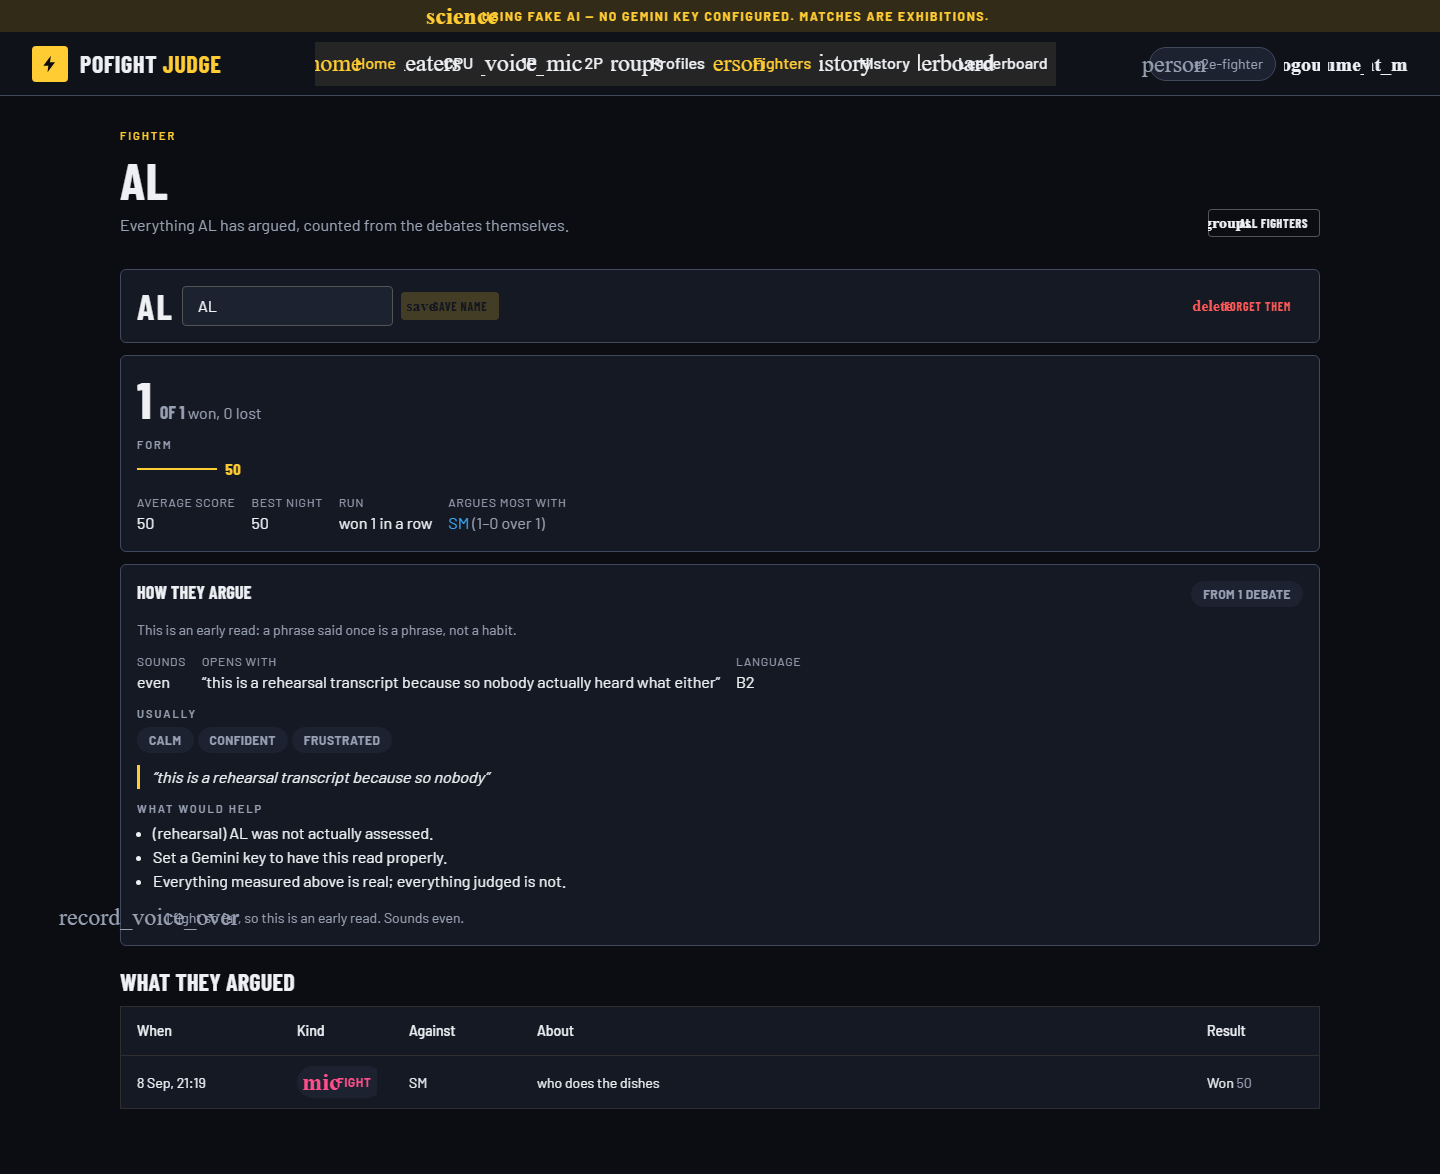
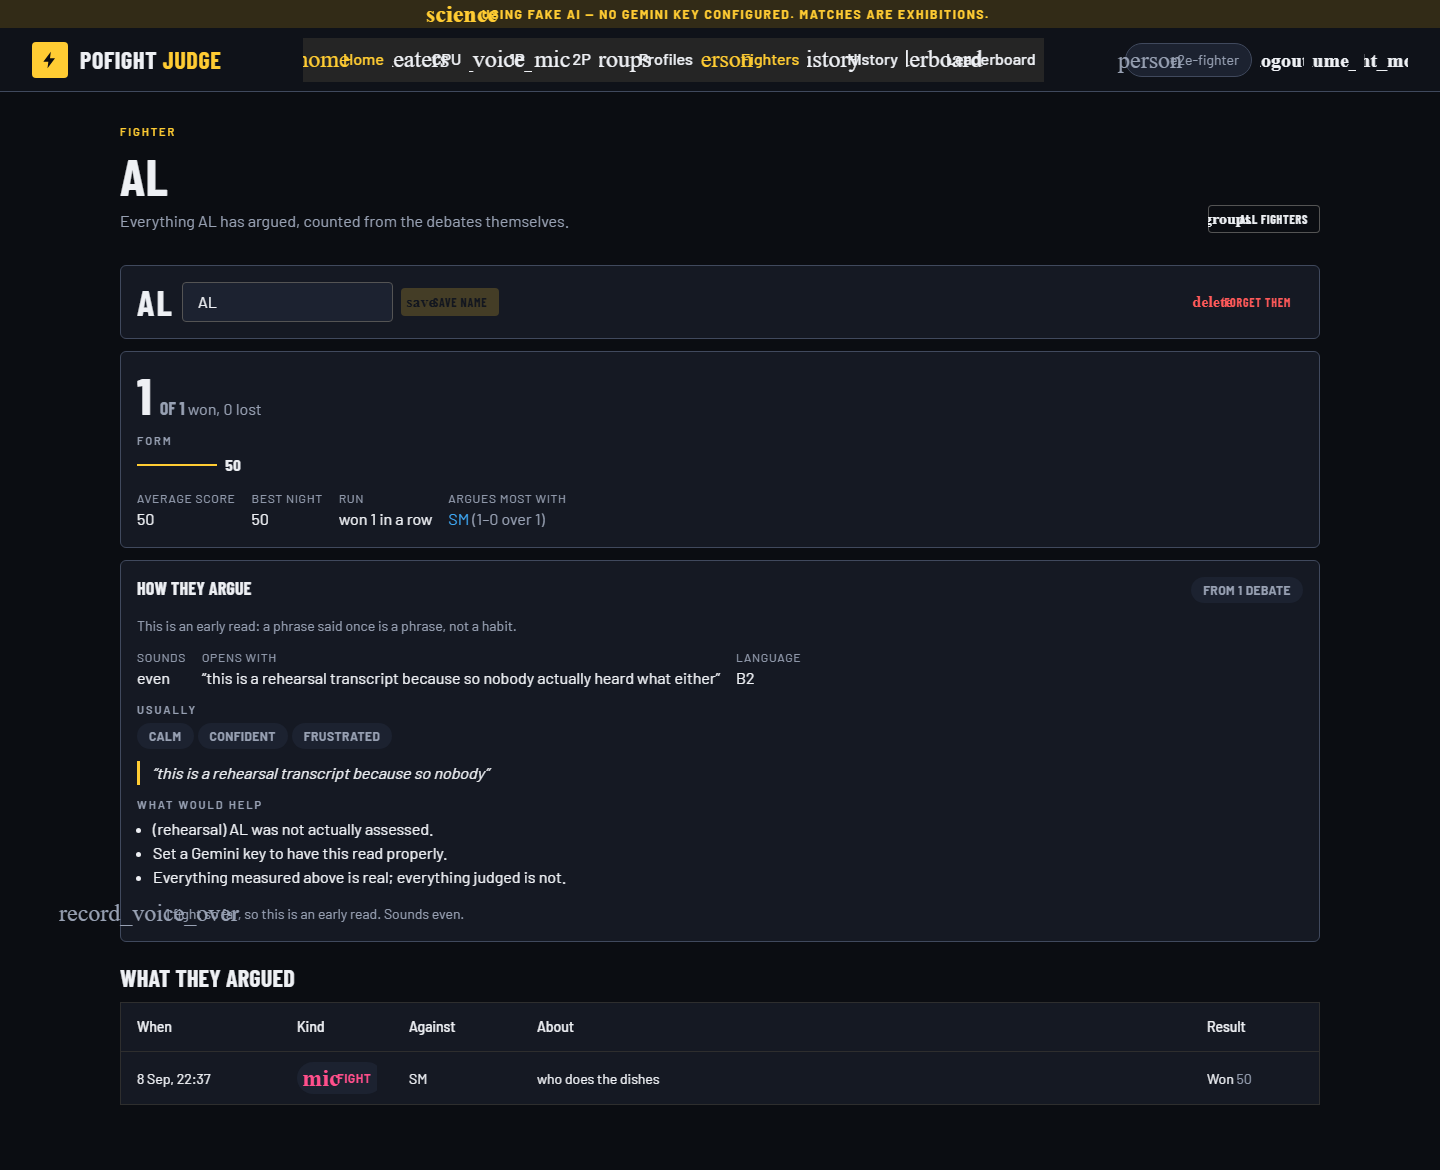
T73: nothing jumps after first paint
The home page measured CLS 0.291 on a phone — nearly three times what Web Vitals calls
good. I went in expecting the fake-AI banner and found three causes, in the order they
turned out to matter.

Radzen's stylesheet was not in the critical path. <RadzenTheme> injects it from Blazor,
about 1.4 s in, and until it lands every Radzen component is unstyled — an icon renders
as its ligature *text*, so the menu icon laid out 72 px wide instead of 24 and the whole
top bar re-flowed when the sheet arrived. theme.js now appends the link itself, choosing
the sheet from the same stored value it already reads for data-theme, and preloads the
icon font that sheet declares. <RadzenTheme> keeps the runtime swap; a second link to the
same file is inert. 0.291 → 0.113 with the other two already in.

The mobile nav rendered open. Radzen collapses it by adding `rz-menu-closed` from its own
JS after measuring the bar, so the first paint had all eight items in flow and the top bar
was 269 px tall instead of 64. Below 64rem the items now start hidden in CSS and Radzen's
`rz-menu-open` reveals them, so the first paint is the settled one. 0.291 → 0.116.

Only then the banner, and not for the reason I expected: it was on screen far too early to
be the shift, but its own height was not stable — three lines in the fallback face, two in
Barlow. One line now at both, with a shorter copy under 40rem and a fixed height, so a
[…]

diff --git a/src/PoFightJudge.Client/wwwroot/js/theme.js b/src/PoFightJudge.Client/wwwroot/js/theme.js
@@ -1,11 +1,37 @@
-// Stamps the stored theme on <html> before Blazor boots so there is no flash of the wrong palette.
-// Dark is the default (no attribute needed); only an explicit "light" choice is stamped. Kept in a file for the CSP.
-// Blazored.LocalStorage writes the value with SetItemAsStringAsync, so it is the bare word, not a JSON string —
-// the quote-strip below tolerates either.
+// Runs before anything paints, in a file rather than inline because the CSP is script-src 'self'.
+//
+// Two jobs, both about the first frame:
+//
+//  1. Stamp the stored theme on <html> so the palette does not flash. Dark is the default (no attribute needed);
+//     only an explicit "light" choice is stamped. Blazored.LocalStorage writes with SetItemAsStringAsync, so the
+//     value is the bare word rather than a JSON string — the quote-strip below tolerates either.
+//
+//  2. Put Radzen's stylesheet in the critical path. <RadzenTheme> injects it from Blazor, which is roughly 1.4 s
+//     in, and until then every Radzen component on the page is unstyled: an icon is its ligature *text*, so the
+//     menu icon measured 72 px wide instead of 24 and the whole top bar re-laid out when the sheet landed. That was
+//     0.11 of the home page's 0.12 CLS. Appended here, it downloads alongside the framework and is applied before
+//     Blazor's first render. <RadzenTheme> still owns the runtime swap; a second link to the same file is inert.
 (function () {
+  var theme = null;
   try {
-    var t = localStorage.getItem('po-theme');
-    if (t) t = t.replace(/^"|"$/g, '');
-    if (t === 'light' || t === 'dark') document.documentElement.setAttribute('data-theme', t);
+    theme = localStorage.getItem('po-theme');
+    if (theme) theme = theme.replace(/^"|"$/g, '');
+    if (theme === 'light' || theme === 'dark') document.documentElement.setAttribute('data-theme', theme);
   } catch (e) { /* storage blocked: keep the default */ }
+
+  var base = '_content/Radzen.Blazor/';
+  var sheet = document.createElement('link');
+  sheet.rel = 'stylesheet';
+  sheet.href = base + 'css/' + (theme === 'light' ? 'material-base.css' : 'material-dark-base.css');
+  document.head.appendChild(sheet);
+
+  // The icon font is declared inside that sheet, so the browser cannot find it until the sheet parses. Asking for
+  // it here means the glyphs are ready when the rules that use them arrive.
+  var font = document.createElement('link');
+  font.rel = 'preload';
+  font.as = 'font';
+  font.type = 'font/woff2';
+  font.crossOrigin = 'anonymous';
+  font.href = base + 'fonts/MaterialSymbolsOutlined.woff2';
+  document.head.appendChild(font);
 })();

diff --git a/src/PoFightJudge.Client/Pages/Verdict.razor.css b/src/PoFightJudge.Client/Pages/Verdict.razor.css
@@ -61,8 +61,12 @@
 }
 
 /* The reveal: each part of the report arrives a beat after the one above it, in reading order. Purely on first
-   paint — nothing here re-runs, and one switch turns all of it off. */
-.verdict > * {
+   paint — nothing here re-runs, and one switch turns all of it off.
+
+   Not the canvases: PoGfx and PoParticles append their own into .verdict, which made them children of this rule and
+   gave the grain and the confetti a 360 ms delay and a 12 px slide of their own, on top of whatever they were
+   already drawing. They are absolutely positioned over the report, not part of its reading order. */
+.verdict > *:not(canvas) {
   animation: rise var(--po-dur-slow) var(--po-ease) both;
 }
 
@@ -76,5 +80,5 @@
 }
 
 @media (prefers-reduced-motion: reduce) {
-  .verdict > * { animation: none; }
+  .verdict > *:not(canvas) { animation: none; }
 }

diff --git a/src/PoFightJudge.Client/Layout/MainLayout.razor.css b/src/PoFightJudge.Client/Layout/MainLayout.razor.css
@@ -121,6 +121,14 @@
 
 /* ── Nav switches at 64rem: seven tabs, a brand and a session block do not fit sooner. ── */
 @media (max-width: 64rem) {
+  /* Closed until Radzen says open. Radzen collapses the menu by adding `rz-menu-closed` from its own JS, after it
+     has measured the bar — so until that ran, all eight items were in flow and the top bar was 269 px tall on a
+     phone instead of 64. Everything below it then jumped 205 px, which was the whole of the home page's CLS.
+     Starting from the closed state in CSS means the first paint is already the settled one. */
+  .nav ::deep .rz-menu:not(.rz-menu-open) .rz-navigation-item {
+    display: none;
+  }
+
   .topbar {
     grid-template-columns: auto 1fr auto;
     gap: var(--po-space-3);

diff --git a/src/PoFightJudge.Client/Components/FakeAiBanner.razor.css b/src/PoFightJudge.Client/Components/FakeAiBanner.razor.css
@@ -3,12 +3,23 @@
   align-items: center;
   justify-content: center;
   gap: var(--po-space-2);
-  min-height: 28px;
-  padding: var(--po-space-1) var(--po-space-4);
+  /* Fixed, not a minimum: the two copies are each one line, and a strip that cannot change height cannot move the
+     page under it when the web font lands. */
+  height: 28px;
+  padding: 0 var(--po-space-4);
   background: var(--po-accent-soft);
   color: var(--po-accent-text);
   font-size: var(--po-text-xs);
   font-weight: 700;
   letter-spacing: 0.14em;
   text-transform: uppercase;
+  white-space: nowrap;
+}
+
+.short { display: none; }
+
+@media (max-width: 40rem) {
+  .po-fake-banner { letter-spacing: 0.06em; }
+  .full { display: none; }
+  .short { display: inline; }
 }

diff --git a/src/PoFightJudge.Client/Services/FeatureGate.cs b/src/PoFightJudge.Client/Services/FeatureGate.cs
@@ -1,0 +1,42 @@
+using PoFightJudge.Shared.Models;
+
+namespace PoFightJudge.Client.Services;
+
+/// <summary>
+/// What the server can actually do, read once before the app renders.
+///
+/// Four places used to ask for the flags themselves, which was four requests for one answer and, worse, an answer
+/// that arrived after first paint: <see cref="Components.FakeAiBanner"/> renders a strip above the top bar, so every
+/// page load settled and then pushed the whole app down by its height. Loading it in Program.cs, between building
+/// the host and running it, means <see cref="Flags"/> is already there on the first render and nothing moves.
+///
+/// A failed load is not fatal. Every flag defaults to off, which is the honest answer when the API is not talking:
+/// no fake-AI banner, no dev guest, no spoken turn.
+/// </summary>
+public sealed class FeatureGate(IApiClient api)
+{
+    private static readonly FeatureFlagsDto Off = new(UseFakeAi: false, DevGuestEnabled: false, HumanInWatch: false, BrowserSpeechRecognition: false);
+
+    /// <summary>The flags. Never null: it is <see cref="Off"/> until the load succeeds, and again if it does not.</summary>
+    public FeatureFlagsDto Flags { get; private set; } = Off;
+
+    /// <summary>True once the server has answered, so a page can tell "off" from "not asked yet" if it needs to.</summary>
+    public bool Loaded { get; private set; }
+
+    /// <summary>Called once, from Program.cs, before the first render. Safe to call again; it simply asks again.</summary>
+    public async Task LoadAsync(CancellationToken ct = default)
+    {
+        try
+        {
+            // Coalesced even though the contract says non-null: every component reads Flags synchronously, so one
+            // null here is a NullReferenceException on a page rather than a flag that is off.
+            Flags = await api.GetFeaturesAsync(ct) ?? Off;
+            Loaded = true;
+        }
+        catch (Exception ex) when (ex is HttpRequestException or ApiException or TaskCanceledException)
+        {
+            // The API is down or slow. The pages say so in their own words; the flags stay off.
+            Flags = Off;
+        }
+    }
+}

diff --git a/tests/PoFightJudge.E2EUI/LayoutShiftTests.cs b/tests/PoFightJudge.E2EUI/LayoutShiftTests.cs
@@ -1,0 +1,50 @@
+using Microsoft.Playwright;
+
+namespace PoFightJudge.E2EUI;
+
+/// <summary>
+/// Cumulative Layout Shift, read from the browser's own layout-shift entries rather than eyeballed. The banner
+/// strip above the top bar renders nothing until the feature flags come back from the API, so every page load used
+/// to settle, then push the whole app down by the height of a banner.
+/// </summary>
+[Collection(AppCollection.Name)]
+public class LayoutShiftTests(AppFixture app)
+{
+    /// <summary>Web Vitals calls 0.1 "good". Nothing here has a reason to shift at all.</summary>
+    private const double Budget = 0.1;
+
+    private static readonly string[] Routes = ["/", "/cpu", "/2p", "/history"];
+
+    [SkippableFact]
+    public async Task No_route_shifts_its_layout_after_first_paint()
+    {
+        var noisy = new List<string>();
+        foreach (var route in Routes)
+        {
+            var (context, page, errors) = await app.OpenAsync(AppFixture.Mobile, route);
+            await using var _ = context;
+
+            // Installed for the *next* navigation: an observer added after load has already missed the shifts.
+            await context.AddInitScriptAsync(@"
+                window.__cls = 0;
+                new PerformanceObserver(list => {
+                  for (const entry of list.getEntries()) {
+                    if (!entry.hadRecentInput) { window.__cls += entry.value; }
+                  }
+                }).observe({ type: 'layout-shift', buffered: true });");
+
+            await page.ReloadAsync(new PageReloadOptions { WaitUntil = WaitUntilState.NetworkIdle, Timeout = 60_000 });
+            await AppFixture.WaitForAppAsync(page, errors);
+            // Long enough for the flags call, and for anything it turns on, to have landed.
+            await page.WaitForTimeoutAsync(1500);
+
+            var cls = await page.EvaluateAsync<double>("() => window.__cls ?? 0");
+            if (cls > Budget)
+            {
+                noisy.Add($"{route}: CLS {cls:F3}");
+            }
+        }
+
+        noisy.Should().BeEmpty("a banner that appears after the API answers pushes the whole page down");
+    }
+}

diff --git a/src/PoFightJudge.Client/Program.cs b/src/PoFightJudge.Client/Program.cs
@@ -5,6 +5,7 @@ using Microsoft.AspNetCore.Components.Authorization;
 using Microsoft.AspNetCore.Components.Web;
 using Microsoft.AspNetCore.Components.WebAssembly.Authentication;
 using Microsoft.AspNetCore.Components.WebAssembly.Hosting;
+using Microsoft.Extensions.DependencyInjection;
 using PoFightJudge.Client;
 using PoFightJudge.Client.Services;
 using PoFightJudge.Shared.Models;
@@ -38,6 +39,7 @@ builder.Services.AddScoped<SimulationState>();
 builder.Services.AddScoped<SetupMemory>();
 builder.Services.AddScoped<SaveInterop>();
 builder.Services.AddScoped<ConnectionState>();
+builder.Services.AddScoped<FeatureGate>();
 builder.Services.AddScoped<ConnectionWatchHandler>();
 // The same rules the API enforces, for <FluentValidationValidator> (registered explicitly: no assembly scanning under trimming).
 builder.Services.AddScoped<IValidator<CreateProfileRequest>, CreateProfileRequestValidator>();
@@ -75,7 +77,14 @@ else
 builder.Services.AddAuthorizationCore(options =>
     options.FallbackPolicy = new AuthorizationPolicyBuilder().RequireAuthenticatedUser().Build());
 
-await builder.Build().RunAsync();
+var host = builder.Build();
+
+// Before the first render, not after it. The fake-AI banner sits above the top bar, so a flag that arrives late is a
+// strip that appears and pushes the whole app down — measured at CLS 0.29 on the home page. One request, and every
+// page that needs the flags reads them from the gate instead of asking again.
+await host.Services.GetRequiredService<FeatureGate>().LoadAsync();
+
+await host.RunAsync();
 
 namespace PoFightJudge.Client
 {

diff --git a/src/PoFightJudge.Client/Pages/WatchPlay.razor.cs b/src/PoFightJudge.Client/Pages/WatchPlay.razor.cs
@@ -35,7 +35,6 @@ public sealed partial class WatchPlay : IAsyncDisposable
     private readonly CancellationTokenSource _leaving = new();
 
     private IReadOnlyList<ProfileDto> _cast = [];
-    private FeatureFlagsDto? _flags;
     private CancellationTokenSource? _beat;
 
     /// <summary>
@@ -83,6 +82,8 @@ public sealed partial class WatchPlay : IAsyncDisposable
     }
 
     [Inject] private IApiClient Api { get; set; } = default!;
+
+    [Inject] private FeatureGate Features { get; set; } = default!;
 
     [Inject] private SimulationState Simulation { get; set; } = default!;
 
@@ -190,7 +191,12 @@ public sealed partial class WatchPlay : IAsyncDisposable
     {
         try
         {
-            _flags = await Api.GetFeaturesAsync(_leaving.Token);
+            if (!Features.Loaded)
+            {
+                // The gate is loaded in Program.cs; this is the browser that booted while the API was down.
+                await Features.LoadAsync(_leaving.Token);
+            }
+
             _cast = await Api.GetProfilesAsync(_leaving.Token) ?? [];
         }
         catch (ApiException)

diff --git a/src/PoFightJudge.Client/Pages/WatchPlay.HumanTurn.cs b/src/PoFightJudge.Client/Pages/WatchPlay.HumanTurn.cs
@@ -36,10 +36,10 @@ public sealed partial class WatchPlay
     private CancellationTokenSource? _listening;
 
     /// <summary>Recording is offered only when the server has a transcriber to finish the turn.</summary>
-    private bool CanRecord => _flags?.HumanInWatch ?? false;
+    private bool CanRecord => Features.Flags.HumanInWatch;
 
     /// <summary>The browser's own recogniser, when this browser has one and the server has not turned it off.</summary>
-    private bool CanDictate => _flags?.BrowserSpeechRecognition ?? false;
+    private bool CanDictate => Features.Flags.BrowserSpeechRecognition;
 
     /// <summary>Opens the microphone for a turn that has just begun. A failure here leaves the box to type in.</summary>
     private async Task BeginListeningAsync()

diff --git a/tests/PoFightJudge.Unit/Client/LoginPageTests.cs b/tests/PoFightJudge.Unit/Client/LoginPageTests.cs
@@ -20,6 +20,8 @@ public class LoginPageTests : BunitContext
         Services.AddRadzenComponents();
         Services.AddScoped<ThemeInterop>();
         Services.AddSingleton(_api);
+        // Program.cs loads the gate before the first render; under bunit the component's own fallback load does it.
+        Services.AddSingleton<FeatureGate>();
         Services.AddScoped<AuthenticationStateProvider>(_ => new ApiAuthStateProvider(_api));
         var env = Substitute.For<IWebAssemblyHostEnvironment>();
         env.Environment.Returns("Development");

diff --git a/tests/PoFightJudge.Unit/Client/WatchSetupTests.cs b/tests/PoFightJudge.Unit/Client/WatchSetupTests.cs
@@ -28,6 +28,8 @@ public class WatchSetupTests : BunitContext
         Services.AddSingleton(Substitute.For<ILocalStorageService>());
         Services.AddScoped<SetupMemory>();
         Services.AddSingleton(_api);
+        // Program.cs loads the gate before the first render; under bunit the component's own fallback load does it.
+        Services.AddSingleton<FeatureGate>();
         Services.AddSingleton(_simulation);
         JSInterop.Mode = JSRuntimeMode.Loose;
         _api.GetProfilesAsync(Arg.Any<CancellationToken>()).Returns(Cast());

diff --git a/tests/PoFightJudge.Unit/Client/HumanTurnTests.cs b/tests/PoFightJudge.Unit/Client/HumanTurnTests.cs
@@ -32,6 +32,8 @@ public sealed class HumanTurnTests : BunitContext, IAsyncLifetime
         // The play screen binds S to the slap, so its hot-key context needs a home.
         Services.AddHotKeys2();
         Services.AddSingleton(_api);
+        // Program.cs loads the gate before the first render; under bunit the component's own fallback load does it.
+        Services.AddSingleton<FeatureGate>();
         Services.AddSingleton(_simulation);
         Services.AddSingleton<TimeProvider>(_clock);
         Services.AddScoped<AudioInterop>();
